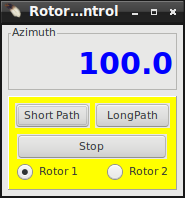
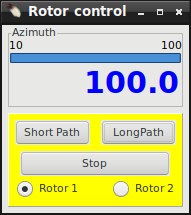
New display and help update

diff --git a/help/h30.html b/help/h30.html
@@ -69,11 +69,12 @@ So do not wonder if you get smaller amount of memories than in your list when pr
 From NewQSO/Window you can open <strong>Rotor control</strong> window.
 <p><img src="img/h121a.png" name="121a"> <img src="img/h121b.png" name="121b">  <img src="img/h121c.png" name="121c">
 </p>
-Window shows current position of rotor, Buttons to set Short/Long path direction and radio buttons to select rotor 1 or rotor 2.
+Window shows current position of rotor with progress bar and numerical display, buttons to set Short/Long path direction, rotation stop button and radio buttons to select rotor 1 or rotor 2.<br>Small numbers on top of form shows current rotator limits. Usually this is 0 -360, but may be also -180 - 180, or user defined limits.
 <br><br> When you have filled a call to NewQSO callsign field and moved away from that field DXCC info part is filled against call prefix, and/or locator grid if entered.
  At that point, when DXCC/AZIM shows a value it is possible to press <b>Short Path</b> or <b>Long Path buttons</b> and your rotator will turn your antenna to that direction.
 <br>Pressing <b>Stop button</b> stops rotator turning.</p>
-<p>If error message is received from rotctld button box turns red. If requested turn command is ok, but az_min or az_maz limits prevent antenna to reach requested direction button box will turn yellow. The length of color flash depends poll rate and is error permanent or not.
+<p>If error message is received from rotctld button box turns red. If requested turn command is ok, but az_min or az_maz limits change sent postion from true position 
+(then antenna may not reach requested direction) button box will turn yellow. The length of color flash depends poll rate and is error permanent or not.
 <br>
 <br>If you make changes to <b>preferences/Rot Control</b> after that just select another rotator (even if not existing) from radio buttons <b>Rotor 1</b> , <b>Rotor 2</b>. Then select back the previous rotor and new values are read. It is possible also reload settings from <b>NewQSO/File/Refresh TRX/ROT control</b>.</p>
 </p><p>See also <a href="h1.html#ah7">setting up TRX/ROTControl</a>
